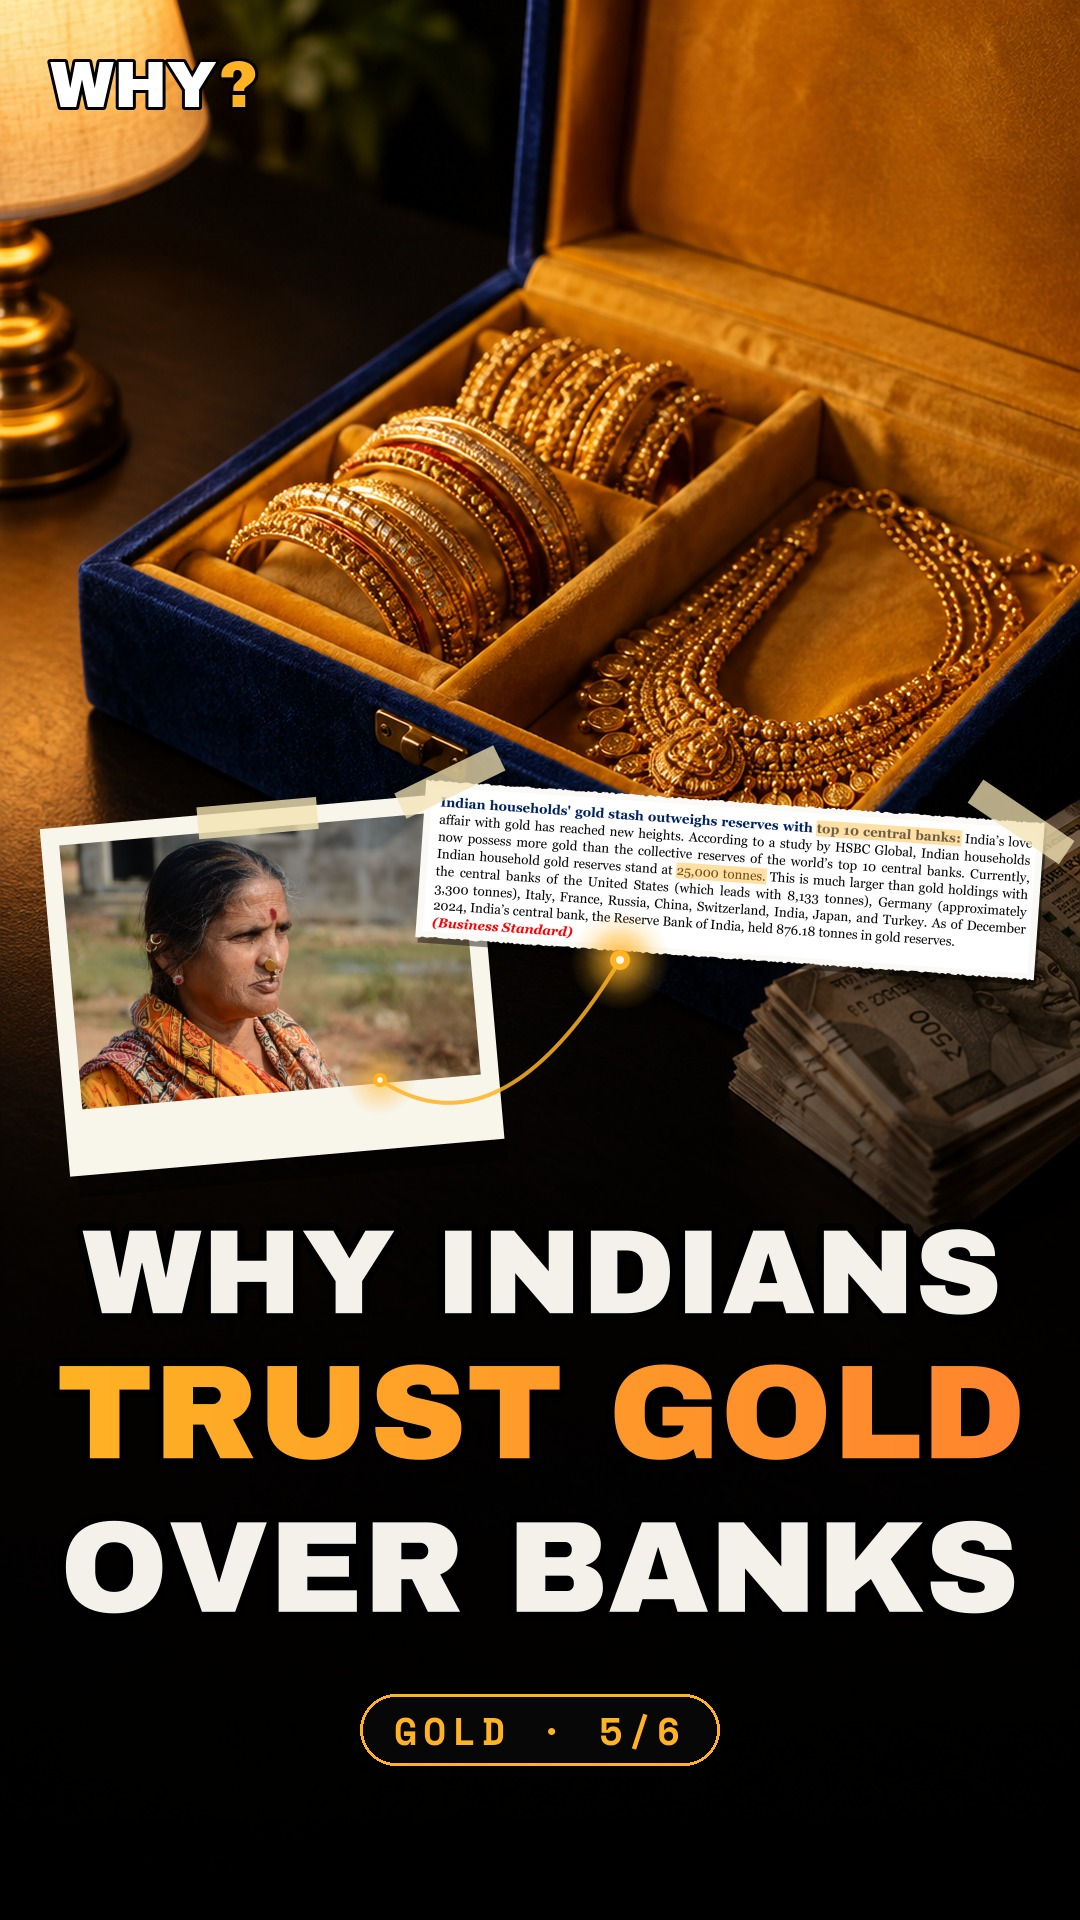
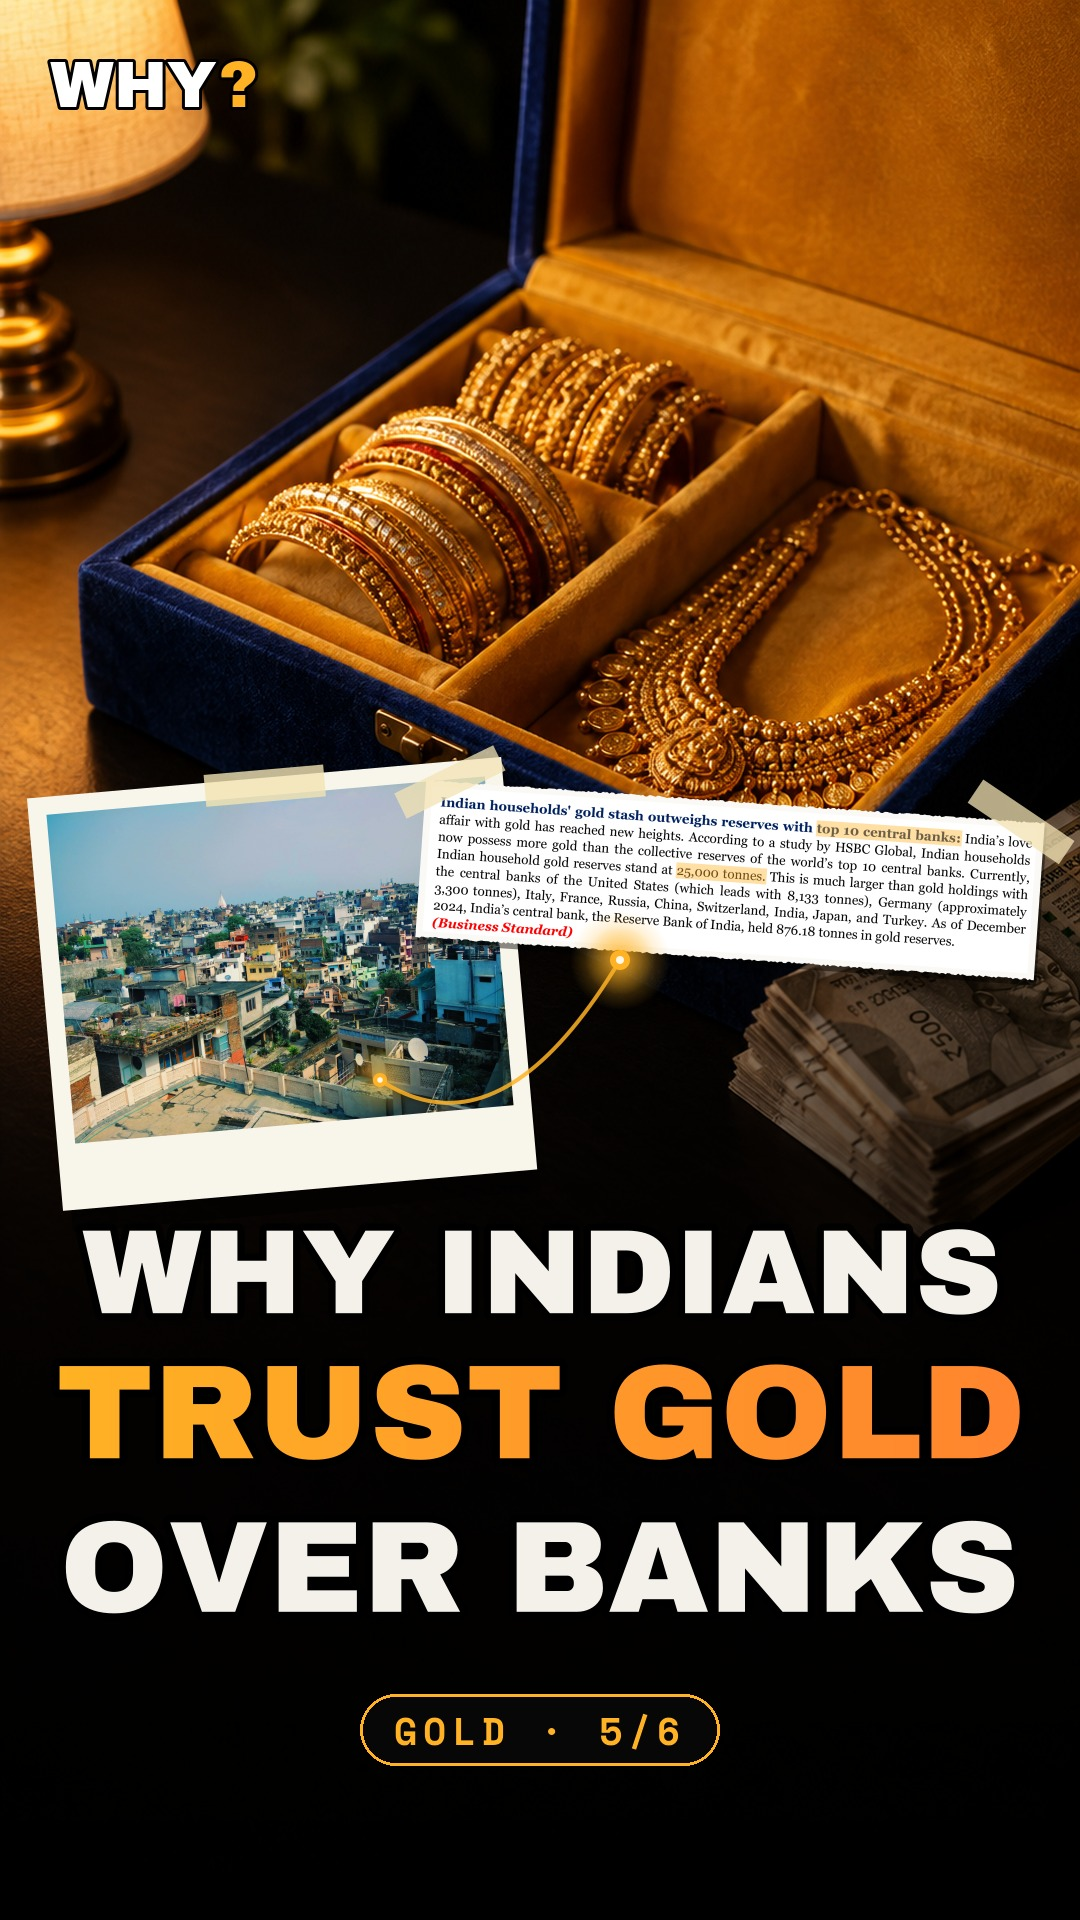
Gold 5 covers: Indian homes photo instead of a face; cover rule in playbook
Claude-Session: https://claude.ai/code/session_01BdKa2s4mjjS1mqZWmX9AiL

Changed region(s): [[0.0, 0.375, 0.5194, 0.6562]]

diff --git a/videos/2026-10-30_short_gold_dhanteras/pipeline/cover5.py b/videos/2026-10-30_short_gold_dhanteras/pipeline/cover5.py
@@ -25,7 +25,7 @@ def make(lang):
     im=Image.open('hero_blue.png').convert('RGB').resize((W,H),Image.LANCZOS)
     sf,_=R.surf_from_pil(im); c.set_source_surface(sf,0,0); c.paint()
     g=cairo.LinearGradient(0,0,0,H); g.add_color_stop_rgba(0.42,0,0,0,0.0); g.add_color_stop_rgba(0.62,0,0,0,0.6); g.add_color_stop_rgba(1,0,0,0,0.92); c.set_source(g); c.paint()
-    R.print_photo(c,'mother.jpg',270,960,400,99,0,rot=-5)
+    R.print_photo(c,'homes.jpg',280,960,440,99,0,rot=-5)
     R.draw_clip(c,'bs',730,880,620,99,0,rot=4,hl_t0=0,hl_dur=0.01,guide=False)
     R.thread(c,380,1080,620,960,99,0); R.glowdot(c,620,960,10)
     if lang=='en':

diff --git a/playbook/why-channel-video-SKILL.md b/playbook/why-channel-video-SKILL.md
@@ -285,3 +285,4 @@ The user is in Texas, so IST times are converted to local time.
 - **Caption fix (Oct 29):** whisper drops/duplicates words at chunk edges on generated voice. Transcribe in ~25 s windows, then snap to the exact script text with difflib (fixw.py) and interpolate missing words. TE captions: map spelled-out numbers to digits (CAPMAP in tealign5.py).
 - **Number check (Oct 29):** every on-screen formula must match the script math (caught "1.07^19" for a 20-year FD before delivery).
 **KEEP:** kinetic-data template for money topics; source footnote on screen when a ranking changes by date; reuse ending lines from voice_lib.
+- **Cover rule (user, Oct 29):** no recognizable person's face on covers; a face grabs the eye before the headline. Use a scene/object photo that matches the topic (e.g. dense Indian homes rooftops for Gold 5). Unsplash MCP works for these (images.unsplash.com downloads from the shell).

diff --git a/videos/2026-10-30_short_gold_dhanteras/Gold_Short5_Post_Copy.md b/videos/2026-10-30_short_gold_dhanteras/Gold_Short5_Post_Copy.md
@@ -36,6 +36,7 @@ Note: the FD figure is a worked example at a fixed 7%; real FD rates moved betwe
 **CREDITS**
 - Pexels: bride's bangles, Ravi Gond · rupee notes, Ravi Roshan · mother, manas patra · young woman and couple, Dream_ maKkerzz
 - Article captures: ICMAI digest / Business Standard, Mint, Aditya Birla Capital (shown as sources)
+- Cover photo (Indian homes): Unsplash Momin, Unsplash (https://unsplash.com/photos/RC13W9yt5bg)
 - Flags, charts, counters and stopwatch graphics: made by WHY?
 - Music: "Where the River Bends" · Sound effects: Mixkit, Freesound (CC0)
 
